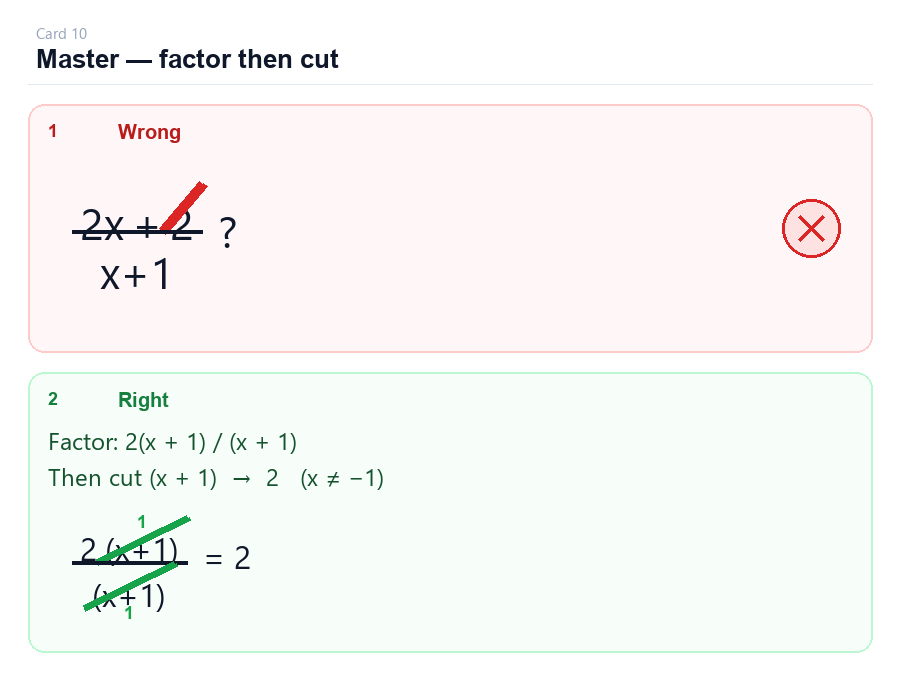
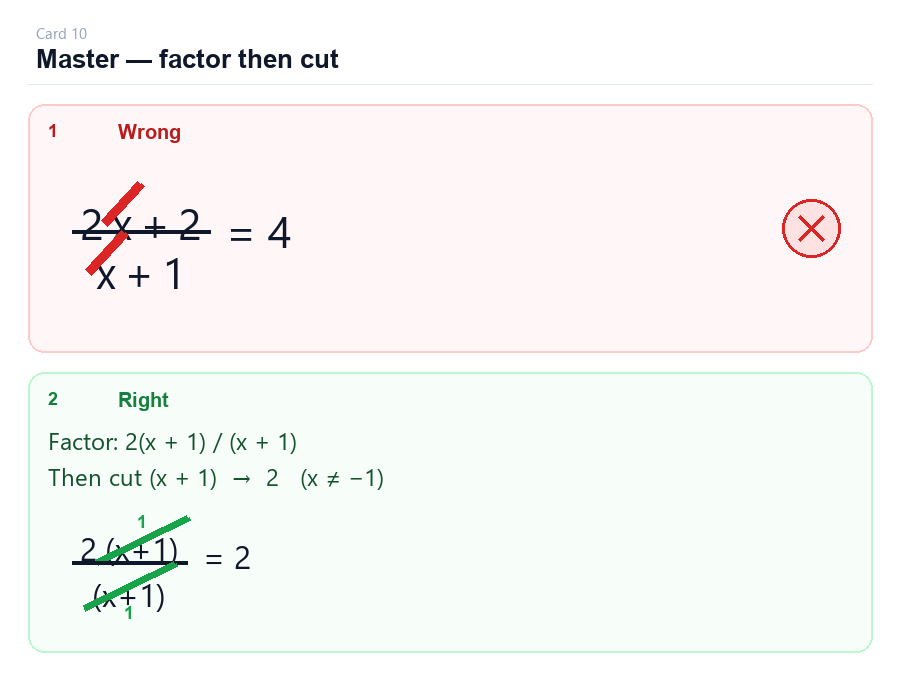
Card 10 Wrong: show illegal x-with-x cancel claiming 4.
Matches the classic student trap of cutting x from 2x and x+1, then writing 2+2=4.

Changed region(s): [[0.0933, 0.2779, 0.2178, 0.4324], [0.2489, 0.3088, 0.3422, 0.3706], [0.2178, 0.2471, 0.2489, 0.2779]]

diff --git a/samples/fraction-simplification-cards/build_cards.py b/samples/fraction-simplification-cards/build_cards.py
@@ -395,17 +395,17 @@ CARDS = [
         "title": "Master — factor then cut",
         "level": "Class 8+",
         "hook_plain": "(2x+2)/(x+1)",
-        "wrong_cancel": "Piece-cancel +2, or cancel x carelessly.",
-        "why": "Factor: 2(x+1)/(x+1) = 2 (x≠−1). Cancel the common factor (x+1), not pieces.",
+        "wrong_cancel": "Cut x with x → claim 2+2 = 4 (classic trap).",
+        "why": "Factor: 2(x+1)/(x+1) = 2 (x≠−1). Cancel the common factor (x+1), not the letter x inside a sum.",
         "steps": [
-            (False, "Piece-cancel → 2x/(x+1)"),
+            (False, "Cut x with x → claim 4"),
             (True, "Factor → 2"),
             (True, "x=3 check → 2"),
-            (False, "Cancel x terms (illegal)"),
+            (False, "Piece-cancel +2 (illegal)"),
         ],
         "options": [
             "Only step (1) is correct",
-            "Steps (2) and (3) are correct; (1) wrong; (4) illegal",
+            "Steps (2) and (3) are correct; (1) and (4) are wrong",
             "All four steps use legal methods",
             "Only step (4) is a safe method",
         ],
@@ -413,19 +413,20 @@ CARDS = [
         "answer_value": "2",
         "difficulty": "Hard",
         "visual": {
-            "wrong_num": [("2x", False), ("+", False), ("2", True, "")],
-            "wrong_den": ("x+1", False),
-            "wrong_result": "?",
+            # Student cuts x↔x and writes 2+2=4 (wrong).
+            "wrong_num": [("2", False), ("x", True, ""), ("+", False), ("2", False)],
+            "wrong_den": [("x", True, ""), ("+", False), ("1", False)],
+            "wrong_result": "= 4",
             "right_a": "Factor: 2(x + 1) / (x + 1)",
             "right_b": "Then cut (x + 1)  →  2   (x ≠ −1)",
             "legal_num": [("2", False), ("(x+1)", True, "1")],
             "legal_den": ("(x+1)", True, "1"),
             "legal_result": "= 2",
             "checks": [
-                ("(1)", None, None, "piece-cut the +2 → leave 2x/(x+1)", False),
+                ("(1)", None, None, "cut x with x → claim 2+2 = 4", False),
                 ("(2)", None, None, "factor: 2(x+1)/(x+1), cut (x+1) → 2", True),
                 ("(3)", None, None, "check x=3: (6+2)/4 = 8/4 = 2", True),
-                ("(4)", None, None, "cut x terms (illegal method)", False),
+                ("(4)", None, None, "piece-cut the +2 (illegal method)", False),
             ],
         },
     },
@@ -471,6 +472,17 @@ def parse_part(part) -> tuple[str, bool, str | None]:
         s = str(raw).strip()
         return text, True, (s if s else None)
     return text, True, "1"
+
+
+def normalize_parts(parts) -> list:
+    """Accept a single part tuple or a list of part tuples."""
+    if parts is None:
+        return []
+    if isinstance(parts, (list, tuple)) and parts and isinstance(parts[0], str):
+        return [parts]
+    if isinstance(parts, (list, tuple)):
+        return list(parts)
+    return []
 
 
 def draw_quotient(
@@ -530,8 +542,16 @@ def draw_fraction_with_cancels(
         num_w += tw + gap
     num_w = max(0, num_w - gap)
 
-    den_text, den_cancel, den_quot = parse_part(den) if den else ("", False, None)
-    den_w, den_h = text_size(draw, den_text, fnt) if den_text else (0, 0)
+    den_parts = normalize_parts(den)
+    den_meta = []
+    den_w = 0
+    for part in den_parts:
+        text, cancel, quot = parse_part(part)
+        tw, th = text_size(draw, text, fnt)
+        den_meta.append((text, cancel, quot, tw, th))
+        den_w += tw + gap
+    den_w = max(0, den_w - gap) if den_meta else 0
+    den_h = max((th for *_, th in den_meta), default=0)
     bar_w = max(num_w, den_w) + 16
 
     # numerator — quotient sits above the cut term
@@ -549,21 +569,22 @@ def draw_fraction_with_cancels(
     bar_y = y + max(th for *_, th in parts_meta) + 8
     draw.line([(x, bar_y), (x + bar_w, bar_y)], fill="#0f172a", width=4)
 
-    # denominator — quotient sits below the cut term (notebook style)
+    # denominator — quotient sits below each cut term (notebook style)
     dx = x + (bar_w - den_w) // 2
     dy = bar_y + 10
-    if den_text:
-        draw.text((dx, dy), den_text, fill="#0f172a", font=fnt)
-        if den_cancel:
-            strike_box(draw, dx, dy + 2, dx + den_w, dy + den_h - 2, strike_color, width=strike_width)
-            if den_quot:
-                qtw, qth = text_size(draw, den_quot, q_fnt)
+    for text, cancel, quot, tw, th in den_meta:
+        draw.text((dx, dy), text, fill="#0f172a", font=fnt)
+        if cancel:
+            strike_box(draw, dx, dy + 2, dx + tw, dy + th - 2, strike_color, width=strike_width)
+            if quot:
+                qtw, _qth = text_size(draw, quot, q_fnt)
                 draw.text(
-                    (dx + den_w // 2 - qtw // 2, dy + den_h + 2),
-                    den_quot,
+                    (dx + tw // 2 - qtw // 2, dy + th + 2),
+                    quot,
                     fill=strike_color,
                     font=q_fnt,
                 )
+        dx += tw + gap
 
     rx = x + bar_w + 16
     if result:

diff --git a/samples/fraction-simplification-cards/TEACHER_GUIDE.md b/samples/fraction-simplification-cards/TEACHER_GUIDE.md
@@ -81,7 +81,7 @@ Figures show **notebook-style cutting** (diagonal strike-through) on cancelled n
 ## Card 10. Master — factor then cut (Class 8+)
 
 - **Hook:** `(2x+2)/(x+1)`
-- **Wrong cancel:** Piece-cancel +2, or cancel x carelessly.
-- **Why:** Factor: 2(x+1)/(x+1) = 2 (x≠−1). Cancel the common factor (x+1), not pieces.
+- **Wrong cancel:** Cut x with x → claim 2+2 = 4 (classic trap).
+- **Why:** Factor: 2(x+1)/(x+1) = 2 (x≠−1). Cancel the common factor (x+1), not the letter x inside a sum.
 - **Result:** `2`
-- **MCQ:** `Steps (2) and (3) are correct; (1) wrong; (4) illegal`
+- **MCQ:** `Steps (2) and (3) are correct; (1) and (4) are wrong`
